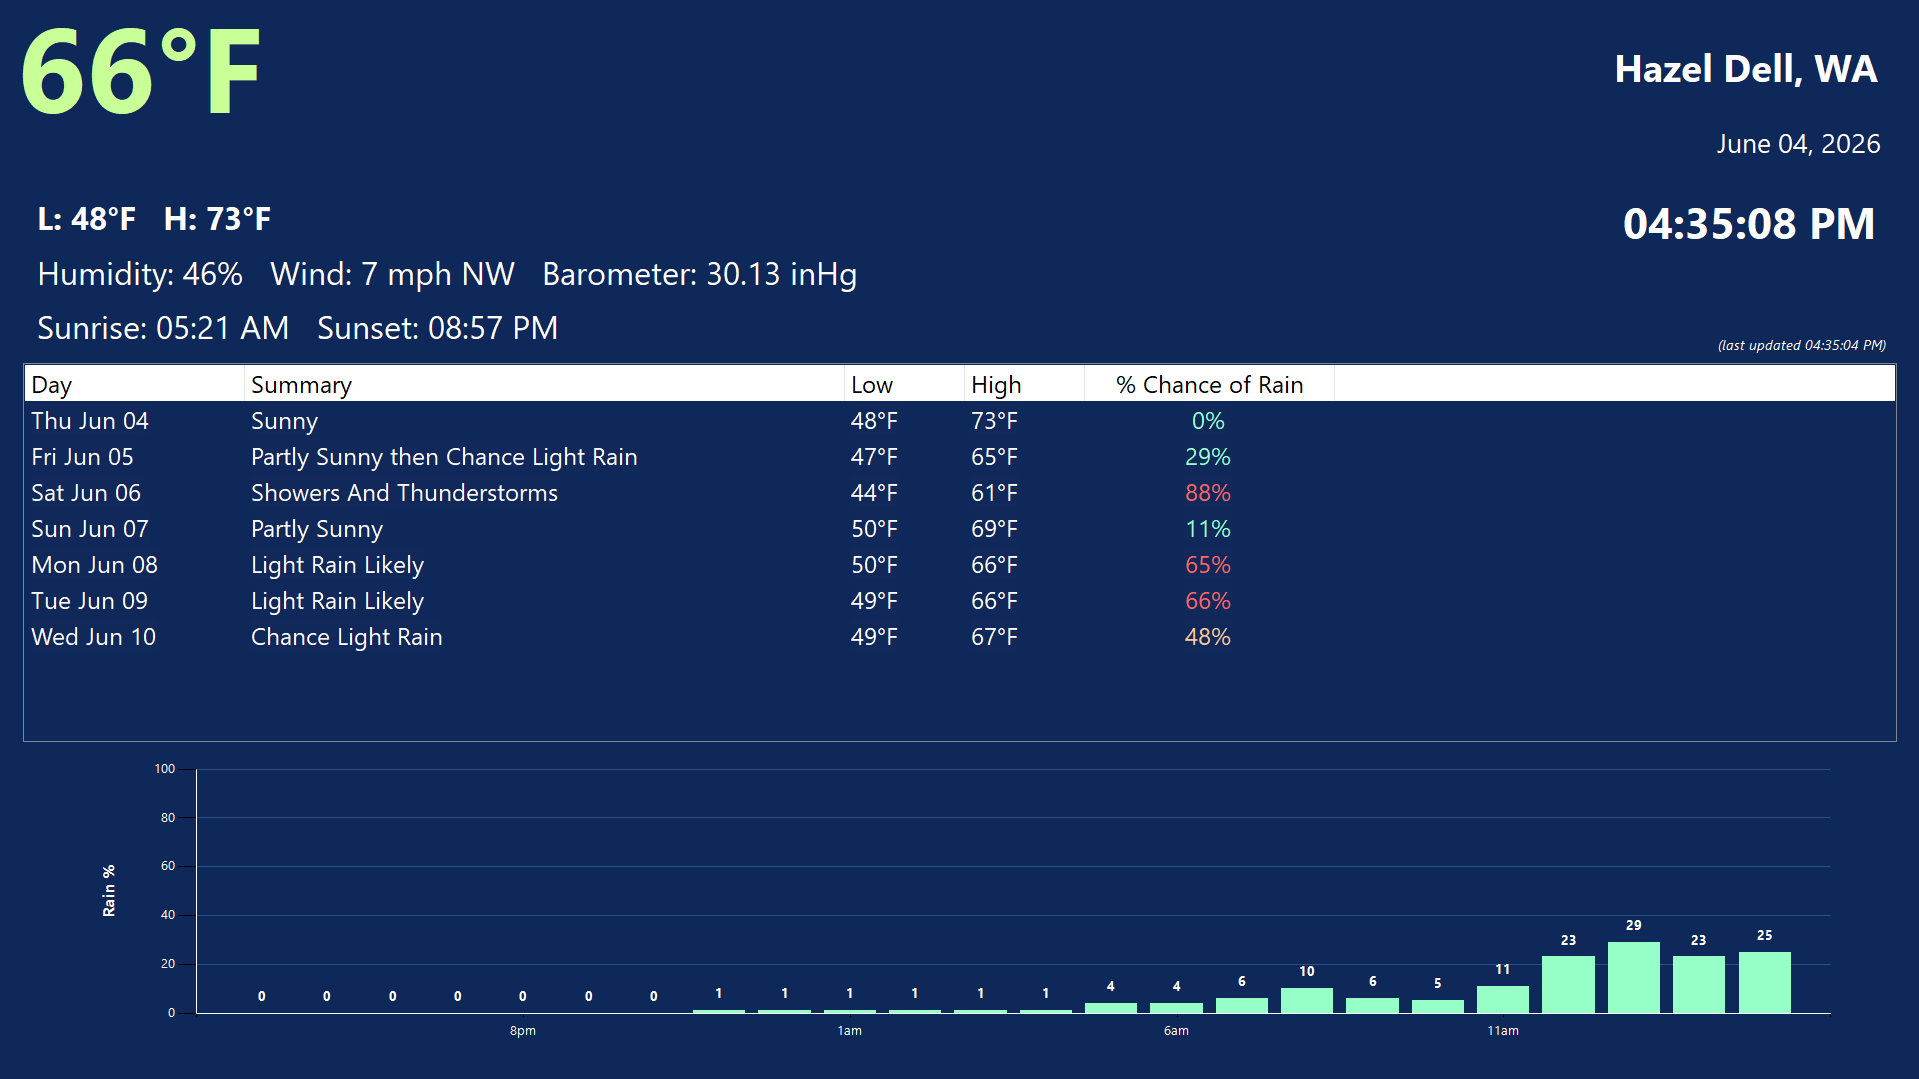
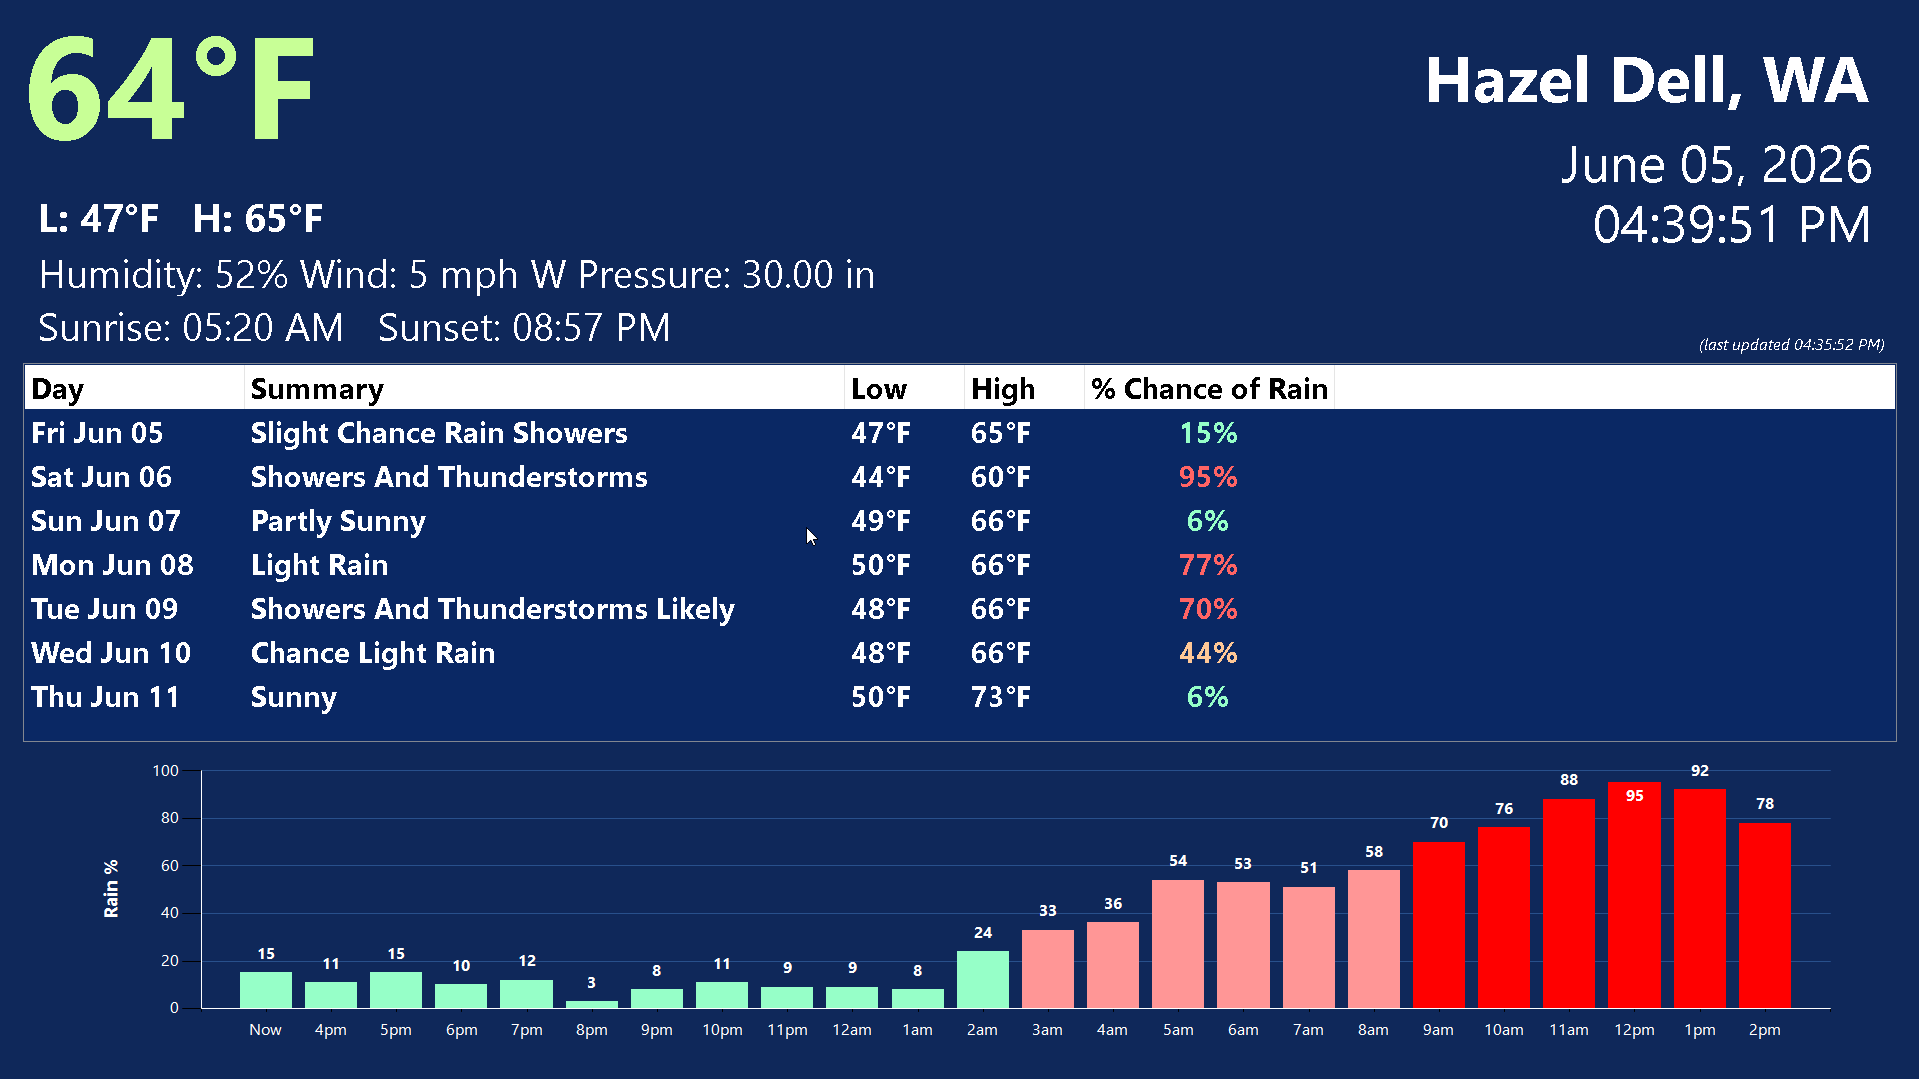
Add files via upload

diff --git a/WeatherApp.cs b/WeatherApp.cs
@@ -97,6 +97,14 @@ namespace WeatherIdleOverlay
         private static double Lat;
         private static double Lon;
 
+        public static void EnableDoubleBuffer(Control c)
+        {
+            c.GetType().GetProperty("DoubleBuffered",
+                System.Reflection.BindingFlags.NonPublic |
+                System.Reflection.BindingFlags.Instance)
+                ?.SetValue(c, true, null);
+        }
+
         public WeatherOverlayForm()
         {
             string iniPath = Path.Combine(AppDomain.CurrentDomain.BaseDirectory, "WeatherApp.ini");
@@ -117,6 +125,12 @@ namespace WeatherIdleOverlay
             KeyPreview = true;
             ShowInTaskbar = false;
 
+            this.KeyDown += (s, e) =>
+            {
+                if (e.KeyCode == Keys.Escape)
+                    Application.Exit();
+            };
+
             BuildUi();
             SetupClock();
             _weatherTimer.Interval = 5 * 60 * 1000; // 5 minutes
@@ -129,7 +143,7 @@ namespace WeatherIdleOverlay
             if (!_debugging) TopMost = true;
 
             _ = RefreshWeatherSafeAsync();
-        }
+       }
 
         protected override void OnFormClosed(FormClosedEventArgs e)
         {
@@ -257,7 +271,8 @@ namespace WeatherIdleOverlay
                 Left = -10,
                 Top = -15,
                 Width = 500,
-                Height = 160
+                Height = 160,
+                Tag = "CurrentTemp"
             };
             this.Controls.Add(_lblCurrentTemp);
 
@@ -301,16 +316,16 @@ namespace WeatherIdleOverlay
             };
 
             panelRight.RowStyles.Clear();
-            panelRight.RowStyles.Add(new RowStyle(SizeType.Absolute, 80));  // location
-            panelRight.RowStyles.Add(new RowStyle(SizeType.Absolute, 70));  // date
-            panelRight.RowStyles.Add(new RowStyle(SizeType.Absolute, 90));  // time
+            panelRight.RowStyles.Add(new RowStyle(SizeType.Absolute, 100));  // location
+            panelRight.RowStyles.Add(new RowStyle(SizeType.Absolute, 60));  // date
+            panelRight.RowStyles.Add(new RowStyle(SizeType.Absolute, 60));  // time
             panelRight.RowStyles.Add(new RowStyle(SizeType.Absolute, 40));  // last updated
 
             _lblLocation = new Label
             {
                 Dock = DockStyle.Fill,
                 AutoSize = false,
-                Font = new Font("Segoe UI", 28, FontStyle.Bold),
+                Font = new Font("Segoe UI", 40, FontStyle.Bold),
                 TextAlign = ContentAlignment.MiddleRight,
                 Text = "Loading location..."
             };
@@ -318,7 +333,7 @@ namespace WeatherIdleOverlay
             {
                 Dock = DockStyle.Fill,
                 AutoSize = false,
-                Font = new Font("Segoe UI", 20, FontStyle.Regular),
+                Font = new Font("Segoe UI", 32, FontStyle.Regular),
                 TextAlign = ContentAlignment.MiddleRight,
                 Text = ""
             };
@@ -326,7 +341,7 @@ namespace WeatherIdleOverlay
             {
                 Dock = DockStyle.Fill,
                 AutoSize = false,
-                Font = new Font("Segoe UI", 32, FontStyle.Bold),
+                Font = new Font("Segoe UI", 32, FontStyle.Regular),
                 TextAlign = ContentAlignment.MiddleRight,
                 Text = ""
             };
@@ -398,6 +413,11 @@ namespace WeatherIdleOverlay
                     TitleForeColor = Color.White
                 }
             };
+
+            chartArea.AxisX.Interval = 1;
+            chartArea.AxisX.LabelStyle.IsEndLabelVisible = true;
+            chartArea.AxisX.LabelStyle.Angle = -45;   // optional but helps spacing
+
             _chartHourlyRain.ChartAreas.Add(chartArea);
 
             var series = new Series("Rain")
@@ -416,6 +436,16 @@ namespace WeatherIdleOverlay
             root.Controls.Add(_chartHourlyRain, 0, 2);
 
             Controls.Add(root);
+
+            EnableDoubleBuffer(this);    // Enable true double-buffering
+            this.SetStyle(ControlStyles.AllPaintingInWmPaint |
+                          ControlStyles.UserPaint |
+                          ControlStyles.OptimizedDoubleBuffer, true);
+            this.UpdateStyles();
+
+            EnableDoubleBuffer(panelRight);   // the panel with time/date
+            EnableDoubleBuffer(root);         // optional
+            EnableDoubleBuffer(topRow);       // optional
         }
 
         // ====== WEATHER FETCHING ======
@@ -487,7 +517,6 @@ namespace WeatherIdleOverlay
             var humDict = (Dictionary<string, object>)obsProps["relativeHumidity"];
             var humVal = humDict["value"];
             data.HumidityPercent = humVal == null ? 0 : Convert.ToInt32(humVal);
-
             // Wind speed (m/s) — sustained only
             var windSpeedDict = (Dictionary<string, object>)obsProps["windSpeed"];
             var windSpeedVal = windSpeedDict["value"];
@@ -603,13 +632,55 @@ namespace WeatherIdleOverlay
 
             return data;
         }
-
-        private void ApplyBackColorRecursive(Control parent, Color bg)
+        private void MakeTransparent(Control ctrl, int x, int y)
         {
-            parent.BackColor = bg;
+            Bitmap bMap = new Bitmap(this.BackgroundImage);
+            Color[,] pixelArray = new Color[ctrl.Width, ctrl.Height];
+
+            for (int i = 0; i < ctrl.Width; i++)
+            {
+                for (int j = 0; j < ctrl.Height; j++)
+                {
+                    pixelArray[i, j] = bMap.GetPixel(x + i, y + j);
+                }
+            }
+
+            Bitmap bmp = new Bitmap(ctrl.Width, ctrl.Height);
+
+            for (int i = 0; i < ctrl.Width; i++)
+            {
+                for (int j = 0; j < ctrl.Height; j++)
+                {
+                    bmp.SetPixel(i, j, pixelArray[i, j]);
+                }
+            }
+
+            ctrl.BackgroundImage = bmp;
+            ctrl.Location = new Point(x, y);
+        }
+
+        static int levels = 0;
+        private void ApplyBackColorRecursive(Control parent, Color bg, Color fg)
+        {
+            if (parent is ListView)
+            {
+                parent.ForeColor = fg;
+                parent.Font = new Font(parent.Font, FontStyle.Bold);
+            }
+            else
+            {
+                try
+                {
+                    parent.BackColor = bg;
+                    if (parent.Tag != "CurrentTemp") parent.ForeColor = fg;
+                }
+                catch { }
+            }
 
             foreach (Control child in parent.Controls)
-                ApplyBackColorRecursive(child, bg);
+            {
+                ApplyBackColorRecursive(child, bg, fg);
+            }
         }
 
         private void UpdateUiWithWeather(WeatherData data)
@@ -637,10 +708,10 @@ namespace WeatherIdleOverlay
                 : ToCompass(data.WindDirectionDegrees);
 
             string windText = $"{Math.Round(data.WindSpeedMph):0} mph {windDir}";
-            string pressureText = $"{data.BarometricPressureInHg:0.00} inHg";
+            string pressureText = $"{data.BarometricPressureInHg:0.00} in";
 
             _lblHumidity.Text =
-                $"Humidity: {data.HumidityPercent}%   Wind: {windText}   Barometer: {pressureText}";
+                $"Humidity: {data.HumidityPercent}% Wind: {windText} Pressure: {pressureText}";
 
             if (data.Sunrise != DateTime.MinValue && data.Sunset != DateTime.MinValue)
             {
@@ -653,36 +724,82 @@ namespace WeatherIdleOverlay
             }
 
             // ===== DAY/NIGHT BACKGROUND =====
-            DateTime now = DateTime.Now;
-            DateTime todaySunset = data.Sunset;
-            DateTime tomorrowSunrise = data.Sunrise;
-            bool isNight = now > todaySunset && now < tomorrowSunrise;
+            // The API doesn't explicitly say if it's currently day or night, but we can infer it based
+            // on sunrise/sunset times. Whichever one is earlier is the "next" event. If sunrise is
+            // earlier, then it's currently night (waiting for sunrise).
+            DateTime dtNow = DateTime.Now;
+            bool isNight = false;
+            if (data.Sunrise < data.Sunset)
+            {
+                if(dtNow < data.Sunrise || dtNow > data.Sunset)
+                    isNight = true;
+                else
+                    isNight = false;
+            }
+            else if (dtNow > data.Sunset)
+                isNight = true;
+            else if (dtNow > data.Sunrise)
+                isNight = false;
+            else
+            {
+                MessageBox.Show($"What got us here? Unexpected time scenario encountered from NWS. They reported Sunrise={data.Sunrise}, Sunset={data.Sunset}, it's now Now={dtNow}"); // What got us here?
+                Application.Exit();
+            }
 
             // Colors
             Color dayColor = Color.FromArgb(15, 40, 90);
             Color nightColor = Color.Black;
 
+            // TODO SWITCH IMAGE HERE based on isNight
             Color bg = isNight ? nightColor : dayColor;
+            double currentPop = data.HourlyRain.Count > 0
+                ? data.HourlyRain[0].Probability * 100.0
+                : 0;
+            
+            Color fg = Color.White;
+            /*if( isNight )
+            {
+                if (currentPop > 60)
+                    this.BackgroundImage = Image.FromFile("RainyNight.png");
+                else if (currentPop > 30)
+                    this.BackgroundImage = Image.FromFile("CloudyNight.png");
+                else
+                    this.BackgroundImage = Image.FromFile("ClearNight.png");
 
-            ApplyBackColorRecursive(this, bg);
+            }
+            else
+            {
+                if (currentPop > 60)
+                    this.BackgroundImage = Image.FromFile("RainyDay.png");
+                else if (currentPop > 30)
+                    this.BackgroundImage = Image.FromFile("CloudyDay.png");
+                else
+                {
+                    this.BackgroundImage = Image.FromFile("SunnyDay.png");
+                    fg = Color.Black;
+                }
+            }
+
+            bg = Color.FromArgb(0, bg);   // add some transparency
+            */
+            ApplyBackColorRecursive(this, bg, fg);
 
             // Chart background
             _chartHourlyRain.BackColor = bg;
             _chartHourlyRain.ChartAreas[0].BackColor = bg;
 
             // Chart gridlines (dim at night)
-            _chartHourlyRain.ChartAreas[0].AxisX.LineColor = Color.White;
-            _chartHourlyRain.ChartAreas[0].AxisY.LineColor = Color.White;
+            _chartHourlyRain.ChartAreas[0].AxisX.LineColor = fg;
+            _chartHourlyRain.ChartAreas[0].AxisY.LineColor = fg;
             _chartHourlyRain.ChartAreas[0].AxisY.MajorGrid.LineColor =
                 isNight ? Color.FromArgb(60, 60, 60) : Color.FromArgb(40, 80, 140);
 
             // Chart label colors
-            _chartHourlyRain.ChartAreas[0].AxisX.LabelStyle.ForeColor = Color.White;
-            _chartHourlyRain.ChartAreas[0].AxisY.LabelStyle.ForeColor = Color.White;
+            _chartHourlyRain.ChartAreas[0].AxisX.LabelStyle.ForeColor = fg;
+            _chartHourlyRain.ChartAreas[0].AxisY.LabelStyle.ForeColor = fg;
 
             // Chart title color
-            _chartHourlyRain.ChartAreas[0].AxisY.TitleForeColor = Color.White;
-
+            _chartHourlyRain.ChartAreas[0].AxisY.TitleForeColor = fg;
 
             if (!string.IsNullOrEmpty(data.City) || !string.IsNullOrEmpty(data.State))
                 _lblLocation.Text = $"{data.City}, {data.State}";
@@ -705,23 +822,32 @@ namespace WeatherIdleOverlay
             var series = _chartHourlyRain.Series["Rain"];
             series.Points.Clear();
 
+            int index = 0;
+
             foreach (var h in data.HourlyRain)
             {
-                string label = h.Time.ToString("htt").ToLower();
                 double value = h.Probability * 100.0;
+
+                // Label logic
+                string label = (index == 0)
+                    ? "Now"
+                    : h.Time.ToString("htt").ToLower();
 
                 int i = series.Points.AddXY(label, value);
                 var pt = series.Points[i];
 
+                pt.AxisLabel = label;   // <-- THIS is the important line
+
                 pt.ToolTip = $"{label}: {Math.Round(value):0}%";
 
-                // Color coding
                 if (value < 30)
-                    pt.Color = Color.FromArgb(150, 255, 200);      // light green
+                    pt.Color = Color.FromArgb(150, 255, 200);
                 else if (value <= 60)
-                    pt.Color = Color.FromArgb(255, 150, 150);      // light red/pink
+                    pt.Color = Color.FromArgb(255, 150, 150);
                 else
-                    pt.Color = Color.FromArgb(255, 0, 0);          // strong red
+                    pt.Color = Color.FromArgb(255, 0, 0);
+
+                index++;
             }
         }
 